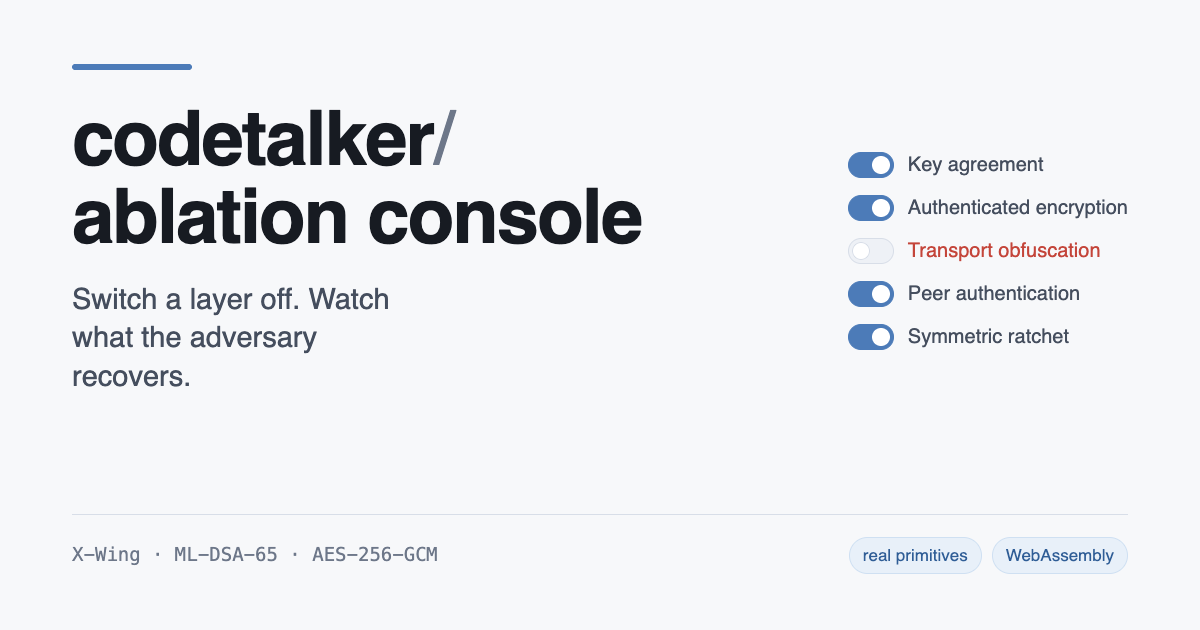
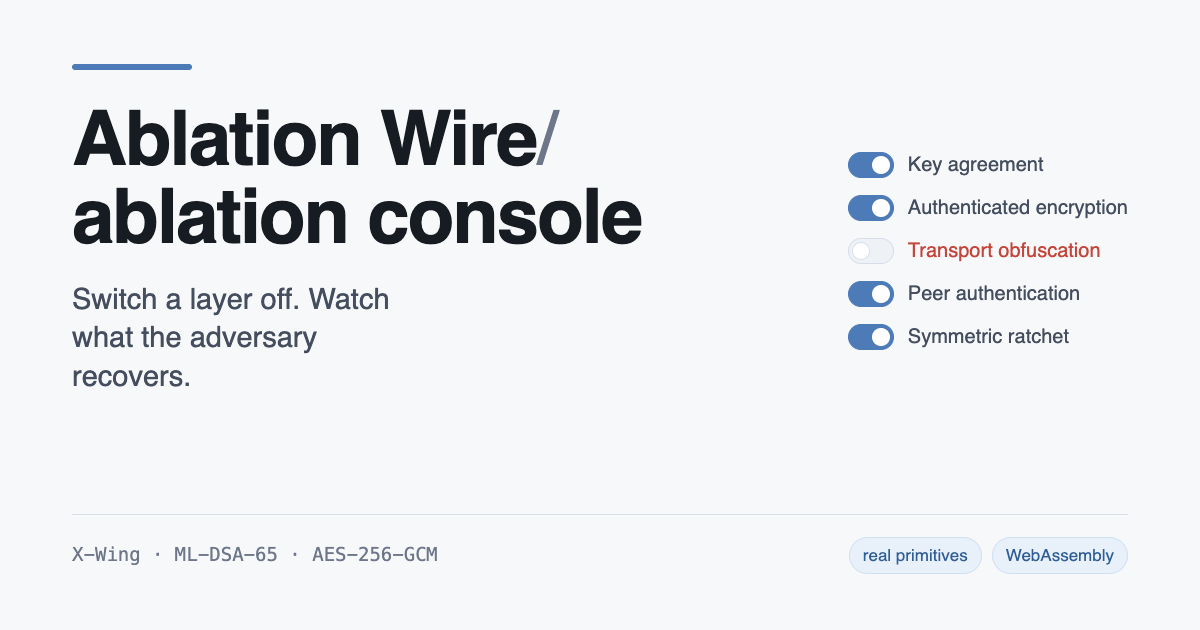
Adopt the catalog name "Ablation Wire", and add the shared Crypto Lab header
The catalog card is titled "Ablation Wire", derived from the repo slug the same
way all 166 other cards are. This repo called itself codetalker, so a visitor
clicked one name and landed on another. Presentation strings now match the
catalog; nothing that names code was touched.

Changed: the page <title>, og:title, og:site_name, og:image:alt, and the README
H1, with a sentence under it establishing the other name. Left alone: the
codetalker-core and codetalker-wasm crates, their directories, the wasm-pack
invocation, ./pkg/codetalker_wasm.js, and the five in-page references that name
the crate rather than the product. Renaming those would have reached CI, the
fuzz targets, dependabot, the artifact check and the wasm import path for no
user-visible gain.

The og:image was regenerated. The brief specified changing the alt text to read
"Ablation Wire / ablation console", but the card still rendered "codetalker" --
leaving alt text that described something the image did not show, which is worse
than a stale name because it only misleads the people relying on it.

Adds the shared header from crypto-lab/shared-header.html as the first element in
<body>, making this the last demo with a way back to the catalog. Two notes on
the integration:

**The block has two `__REPO__` placeholders, not one.** The functional one is the
GitHub link; the second sits inside the managed comment describing the mechanism.
[…]

Changed region(s): [[0.0617, 0.1508, 0.4625, 0.2714]]

diff --git a/web/index.html b/web/index.html
@@ -3,7 +3,7 @@
 <head>
 <meta charset="utf-8" />
 <meta name="viewport" content="width=device-width, initial-scale=1" />
-<title>codetalker — layer ablation console</title>
+<title>Ablation Wire — crypto-lab</title>
 <meta name="description" content="Switch each layer of a secure channel off and watch what an adversary recovers. Real primitives, compiled to WebAssembly." />
 
 <!-- Absolute URLs, because a scraper resolves these against its own notion of
@@ -14,13 +14,13 @@
 <link rel="canonical" href="https://systemslibrarian.github.io/crypto-lab-ablation-wire/" />
 <meta property="og:type" content="website" />
 <meta property="og:url" content="https://systemslibrarian.github.io/crypto-lab-ablation-wire/" />
-<meta property="og:site_name" content="codetalker" />
-<meta property="og:title" content="codetalker — layer ablation console" />
+<meta property="og:site_name" content="Ablation Wire" />
+<meta property="og:title" content="Ablation Wire — crypto-lab" />
 <meta property="og:description" content="Switch each layer of a secure channel off and watch what an adversary recovers. Real primitives, compiled to WebAssembly." />
 <meta property="og:image" content="https://systemslibrarian.github.io/crypto-lab-ablation-wire/og.png" />
 <meta property="og:image:width" content="1200" />
 <meta property="og:image:height" content="630" />
-<meta property="og:image:alt" content="Five layer switches, one of them off, beside the title 'codetalker / ablation console'." />
+<meta property="og:image:alt" content="Five layer switches, one of them off, beside the title 'Ablation Wire / ablation console'." />
 <meta name="twitter:card" content="summary_large_image" />
 <!-- Inline, because the deploy artifact is `web/` and every request the page
      makes has to resolve inside it. A missing favicon.ico is a 404 in the
@@ -197,7 +197,16 @@ code, .mono { font-family: var(--mono); font-variant-ligatures: none; }
 }
 @media (max-width: 1000px) { .console { grid-template-columns: minmax(0, 1fr); } }
 
-.rail { display: flex; flex-direction: column; gap: 1rem; position: sticky; top: 1.5rem; }
+/* The shared Crypto Lab header is `position: sticky` and 65px tall, and it does
+   not publish its own height as a custom property. Without offsetting for it the
+   rail pins at 1.5rem and the top 41px of the Transmission card sits behind the
+   bar for the whole of its sticky range — measured at scrollY 200–550. Only
+   relevant above 1000px, where the rail is sticky and the bar height is fixed. */
+:root { --cl-bar-h: 65px; }
+.rail {
+  display: flex; flex-direction: column; gap: 1rem;
+  position: sticky; top: calc(var(--cl-bar-h) + 1.5rem);
+}
 @media (max-width: 1000px) { .rail { position: static; } }
 
 .readout { display: flex; flex-direction: column; gap: 1.25rem; min-width: 0; }
@@ -419,8 +428,132 @@ code, .mono { font-family: var(--mono); font-variant-ligatures: none; }
 </style>
 </head>
 <body>
+<!-- BEGIN crypto-lab shared header — managed; edit shared-header.html + re-run reapply-header.py
+     Identical on every lab. Self-contained styles. Accents use each demo's own
+     --accent CSS variable (teal #35d6bb fallback). The ONLY per-repo value is the
+     repo name (crypto-lab-ablation-wire) in the GitHub link.
+     Source of truth: github.com/systemslibrarian/crypto-lab/shared-header.html -->
+<style>
+  .cl-topbar{
+    /* The bar is always dark (#0b1512) regardless of page theme, so header
+       text must always be light. Mix each lab's --accent toward near-white so
+       the hue still tints the brand but contrast stays >=4.5:1 on the bar even
+       when a lab's accent is dark (e.g. a light-theme #1a56db). */
+    --cl-ink: color-mix(in srgb, var(--accent, #35d6bb) 60%, #eafff8);
+    display:flex;align-items:center;justify-content:space-between;gap:1rem;
+    padding:.7rem clamp(.9rem,3vw,2rem);
+    background:#0b1512;
+    border-bottom:1px solid color-mix(in srgb, var(--accent, #35d6bb) 22%, transparent);
+    font-family:ui-monospace,"SFMono-Regular",Menlo,Consolas,monospace;
+    position:sticky;top:0;z-index:1000;
+  }
+  .cl-brand{display:flex;align-items:center;gap:.8rem;text-decoration:none}
+  .cl-badge{
+    flex:0 0 auto;display:grid;place-items:center;width:40px;height:40px;
+    border:1.5px solid var(--accent, #35d6bb);border-radius:10px;
+    color:var(--cl-ink);font-weight:700;font-size:.95rem;letter-spacing:.05em;
+  }
+  .cl-brand-text{display:flex;flex-direction:column;line-height:1.15}
+  .cl-title{color:#eafff8;font-weight:700;font-size:1.05rem;letter-spacing:.12em}
+  .cl-sub{color:#5e8b80;font-size:.72rem;letter-spacing:.04em}
+  .cl-actions{display:flex;align-items:center;gap:.5rem}
+  .cl-btn{
+    display:inline-flex;align-items:center;gap:.4rem;
+    padding:.5rem .85rem;border-radius:10px;
+    border:1px solid color-mix(in srgb, var(--accent, #35d6bb) 38%, transparent);
+    background:transparent;color:var(--cl-ink);cursor:pointer;
+    font:inherit;font-size:.78rem;font-weight:700;letter-spacing:.1em;
+    text-transform:uppercase;text-decoration:none;transition:background .15s,border-color .15s,color .15s;
+  }
+  .cl-btn:hover{
+    background:color-mix(in srgb, var(--accent, #35d6bb) 14%, transparent);
+    border-color:var(--accent, #35d6bb);color:#eafff8;
+  }
+  .cl-btn svg{width:15px;height:15px}
+  .cl-icon{padding:.5rem .6rem;font-size:.95rem}
+  /* Skip-to-content link: first focusable element so keyboard users can bypass
+     this sticky header (WCAG 2.4.1). Hidden until focused. Fixed light-on-dark
+     pair (not --accent, which can be a dark hue on some labs) keeps contrast AA. */
+  .cl-skip-link{
+    position:absolute;left:.5rem;top:-3rem;z-index:1001;
+    padding:.55rem 1rem;border-radius:0 0 10px 10px;
+    background:#eafff8;color:#0b1512;
+    font-family:ui-monospace,"SFMono-Regular",Menlo,Consolas,monospace;
+    font-weight:700;font-size:.8rem;letter-spacing:.04em;text-decoration:none;
+    transition:top .15s ease;
+  }
+  .cl-skip-link:focus{top:0;outline:2px solid var(--accent,#35d6bb);outline-offset:2px;}
+  /* hide each lab's own in-page theme toggle — the bar's toggle replaces it.
+     element stays in the DOM so the lab's theme JS keeps working. */
+  body :is(#theme-toggle,#themeToggle,.theme-toggle,.theme-toggle-btn,[data-theme-toggle]):not(#cl-theme-toggle){display:none!important}
+  @media(max-width:560px){
+    .cl-sub{display:none}
+    .cl-btn span{display:none}
+    .cl-btn svg{margin:0}
+  }
+</style>
+<a class="cl-skip-link" href="#app">Skip to content</a>
+<header class="cl-topbar" role="banner" aria-label="Crypto Lab">
+  <a class="cl-brand" href="https://crypto-lab.systemslibrarian.dev/" aria-label="Crypto Lab home">
+    <span class="cl-badge">CL</span>
+    <span class="cl-brand-text">
+      <span class="cl-title">CRYPTO LAB</span>
+      <span class="cl-sub">systemslibrarian.dev</span>
+    </span>
+  </a>
+  <nav class="cl-actions" aria-label="Crypto Lab navigation">
+    <a class="cl-btn" href="https://crypto-lab.systemslibrarian.dev/" aria-label="Crypto Lab menu">
+      <svg viewBox="0 0 24 24" fill="none" stroke="currentColor" stroke-width="2" stroke-linecap="round" aria-hidden="true"><line x1="3" y1="6" x2="21" y2="6"/><line x1="3" y1="12" x2="21" y2="12"/><line x1="3" y1="18" x2="21" y2="18"/></svg>
+      <span>Menu</span>
+    </a>
+    <a class="cl-btn" href="https://github.com/systemslibrarian/crypto-lab-ablation-wire" target="_blank" rel="noopener" aria-label="View this project on GitHub">
+      <svg viewBox="0 0 24 24" fill="currentColor" aria-hidden="true"><path d="M12 .5C5.7.5.5 5.7.5 12c0 5.1 3.3 9.4 7.9 10.9.6.1.8-.2.8-.6v-2c-3.2.7-3.9-1.4-3.9-1.4-.5-1.3-1.3-1.7-1.3-1.7-1.1-.7 0-.7 0-.7 1.2.1 1.8 1.2 1.8 1.2 1 1.8 2.7 1.3 3.4 1 .1-.8.4-1.3.7-1.6-2.6-.3-5.3-1.3-5.3-5.7 0-1.3.5-2.3 1.2-3.1-.1-.3-.5-1.5.1-3.1 0 0 1-.3 3.3 1.2a11.4 11.4 0 0 1 6 0C17.3 5 18.3 5.3 18.3 5.3c.6 1.6.2 2.8.1 3.1.8.8 1.2 1.8 1.2 3.1 0 4.4-2.7 5.4-5.3 5.7.4.4.8 1.1.8 2.2v3.3c0 .4.2.7.8.6 4.6-1.5 7.9-5.8 7.9-10.9C23.5 5.7 18.3.5 12 .5z"/></svg>
+      <span>GitHub</span>
+    </a>
+    <button class="cl-btn cl-icon" id="cl-theme-toggle" type="button" aria-label="Toggle color theme" title="Toggle theme">☀</button>
+  </nav>
+</header>
+<script>
+  (function () {
+    var t = document.getElementById('cl-theme-toggle');
+    if (t) {
+      var cur = function(){ return document.documentElement.getAttribute('data-theme') === 'light' ? 'light' : 'dark'; };
+      var paint = function(){ t.textContent = cur() === 'light' ? '☾' : '☀'; };
+      paint();
+      t.addEventListener('click', function () {
+        var next = cur() === 'light' ? 'dark' : 'light';
+        document.documentElement.setAttribute('data-theme', next);
+        try { localStorage.setItem('theme', next); } catch (e) {}
+        paint();
+      });
+    }
+    // A page may have only one banner landmark. This shared site header is it;
+    // demote any banner a lab also declared on its own page header (explicit
+    // role="banner", or an implicit <header> child of <body>) so landmarks stay unique.
+    function dedupeBanner() {
+      var bar = document.querySelector('.cl-topbar');
+      if (!bar) return;
+      document.querySelectorAll('[role="banner"]').forEach(function (el) {
+        if (el !== bar) el.setAttribute('role', 'group');
+      });
+      Array.prototype.forEach.call(document.body ? document.body.children : [], function (el) {
+        if (el.tagName === 'HEADER' && el !== bar && !el.hasAttribute('role')) el.setAttribute('role', 'group');
+      });
+    }
+    if (document.readyState === 'loading') document.addEventListener('DOMContentLoaded', dedupeBanner);
+    else dedupeBanner();
+  })();
+</script>
+<!-- END crypto-lab shared header -->
 
-<header class="masthead">
+
+
+<!-- `id="app"` is the shared header's skip-link target. The header ships
+     `<a class="cl-skip-link" href="#app">`, so without this the first focusable
+     element on the page points nowhere and the WCAG 2.4.1 bypass it exists to
+     provide silently does nothing. `tabindex="-1"` is what actually moves focus
+     here rather than only scrolling. -->
+<header class="masthead" id="app" tabindex="-1">
   <div class="masthead-inner">
     <div>
       <h1>Layer ablation console</h1>

diff --git a/README.md b/README.md
@@ -1,7 +1,8 @@
-# codetalker
+# Ablation Wire
 
-The 1942 Navajo code-talker stack, rebuilt on modern primitives, with every
-layer independently switchable.
+The codetalker stack — the 1942 Navajo code-talker stack rebuilt on modern
+primitives, with every layer independently switchable. The internal crates are
+`codetalker-core` and `codetalker-wasm`, and they keep those names.
 
 The point is not to build a secure channel. It is to let a reader turn layers
 off and discover which one was actually load-bearing.
